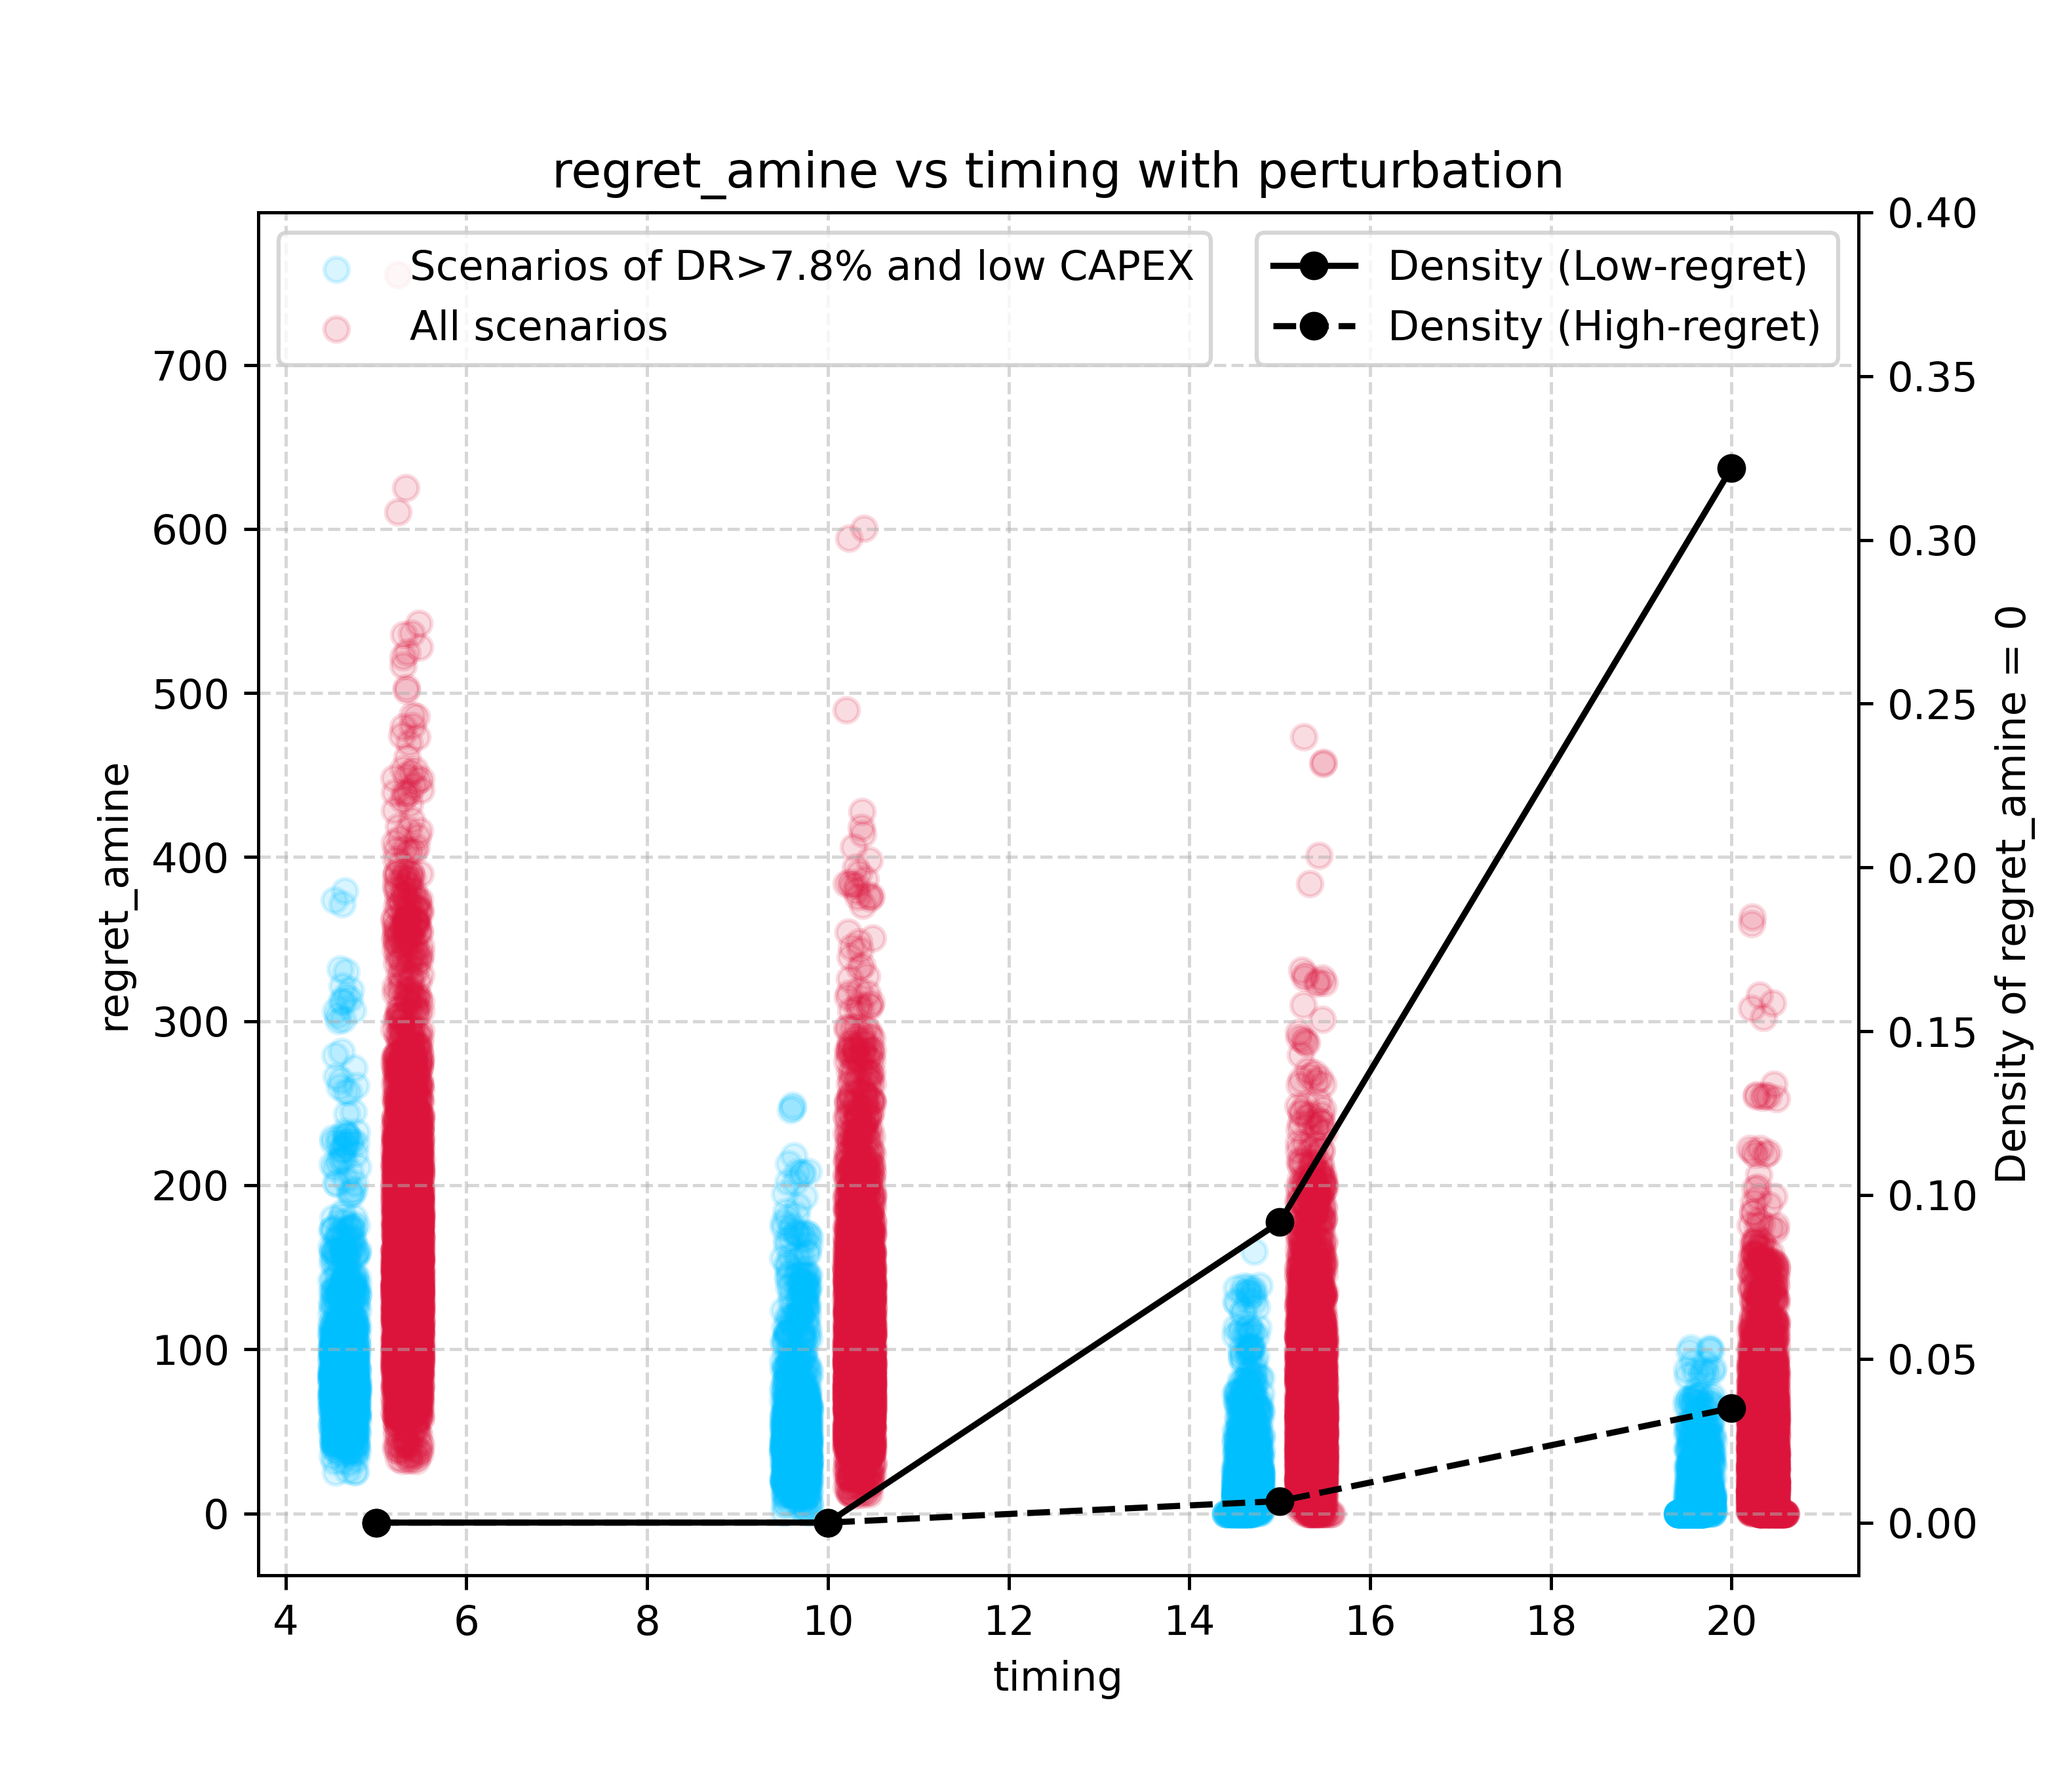
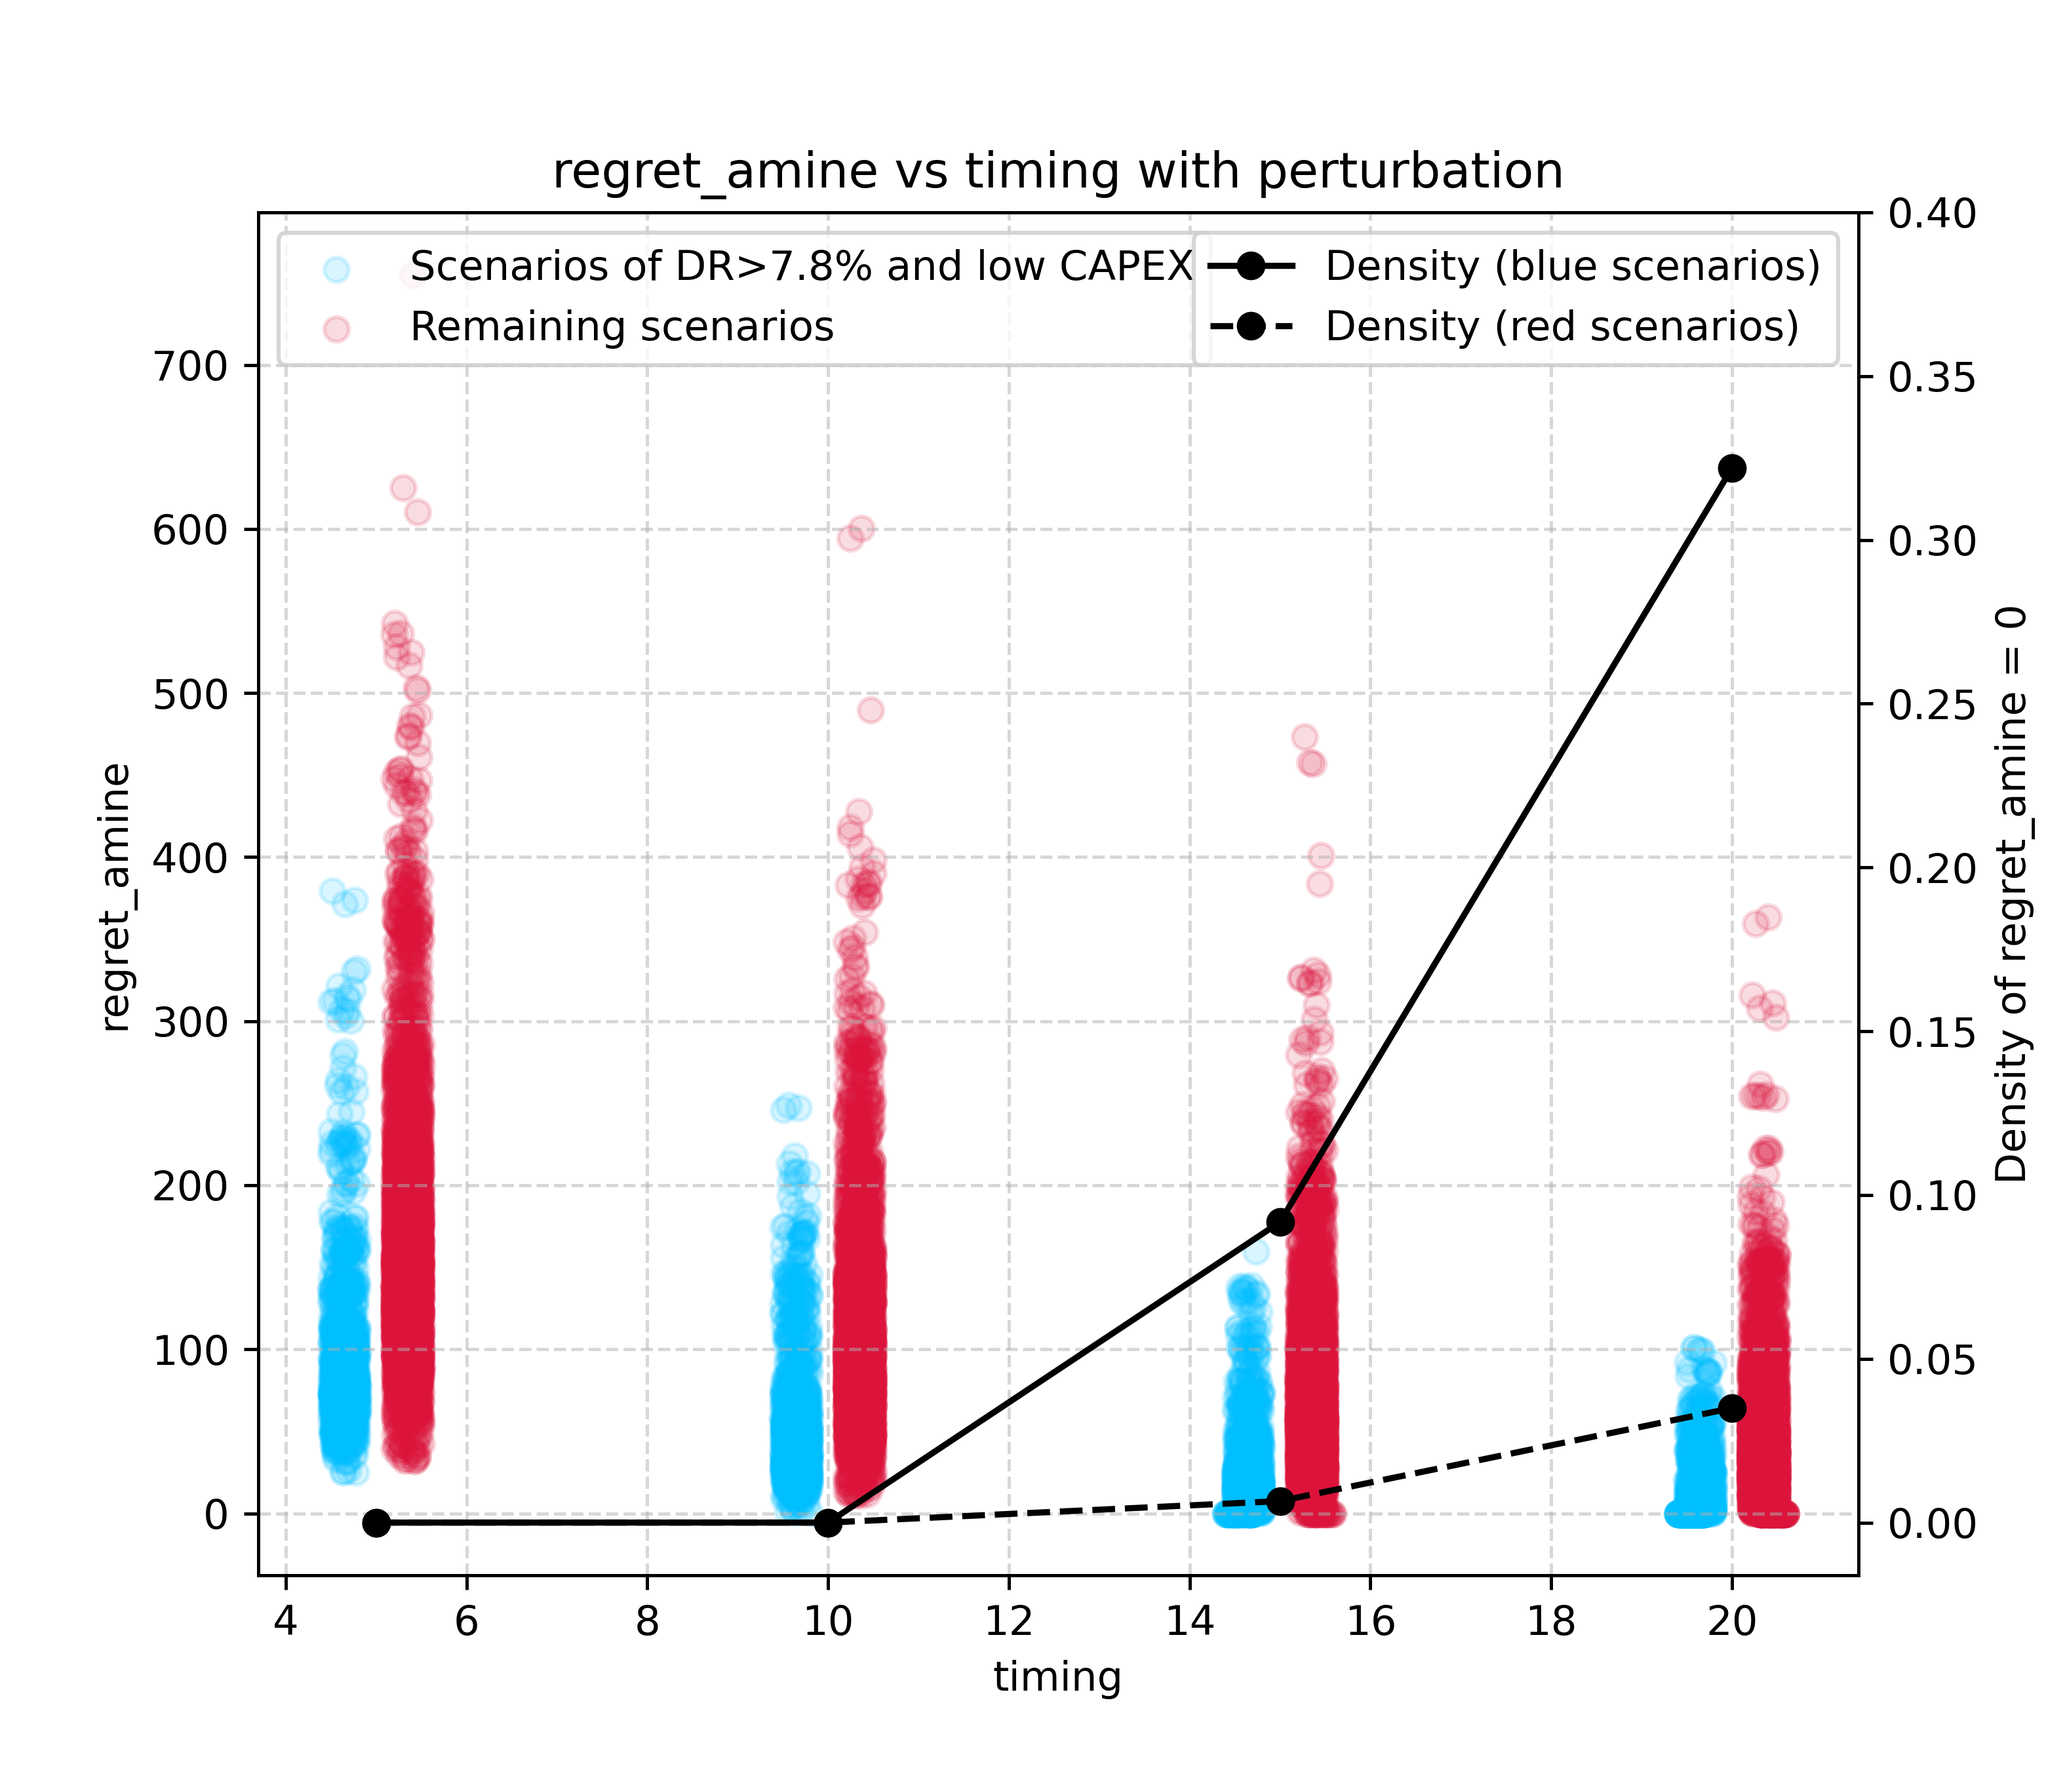
Edit plot

diff --git a/parallel_amine.py b/parallel_amine.py
@@ -115,7 +115,7 @@ df_false["timing"] = add_perturbation(df_false, direction='right')
 
 fig, ax1 = plt.subplots(figsize=(7, 6))
 ax1.scatter(df_true["timing"], df_true["regret_amine"], color="deepskyblue", alpha=0.15, label="Scenarios of DR>7.8% and low CAPEX")
-ax1.scatter(df_false["timing"], df_false["regret_amine"], color="crimson", alpha=0.15, label="All scenarios")
+ax1.scatter(df_false["timing"], df_false["regret_amine"], color="crimson", alpha=0.15, label="Remaining scenarios")
 
 ax1.set_xlabel("timing")
 ax1.set_ylabel("regret_amine", color="black")
@@ -131,7 +131,7 @@ ax2 = ax1.twinx()
 timing_values = sorted(df_true["timing"].unique())  # Get the unique timing values
 density_legend_handles = []  # Store legend handles for density lines
 
-for df, line, scenario_label in [(df_true, "-", "Density (Low-regret)"), (df_false, "--", "Density (High-regret)")]:
+for df, line, scenario_label in [(df_true, "-", "Density (blue scenarios)"), (df_false, "--", "Density (red scenarios)")]:
 
     density_in_timings = []
     for timing_value in timing_values:
